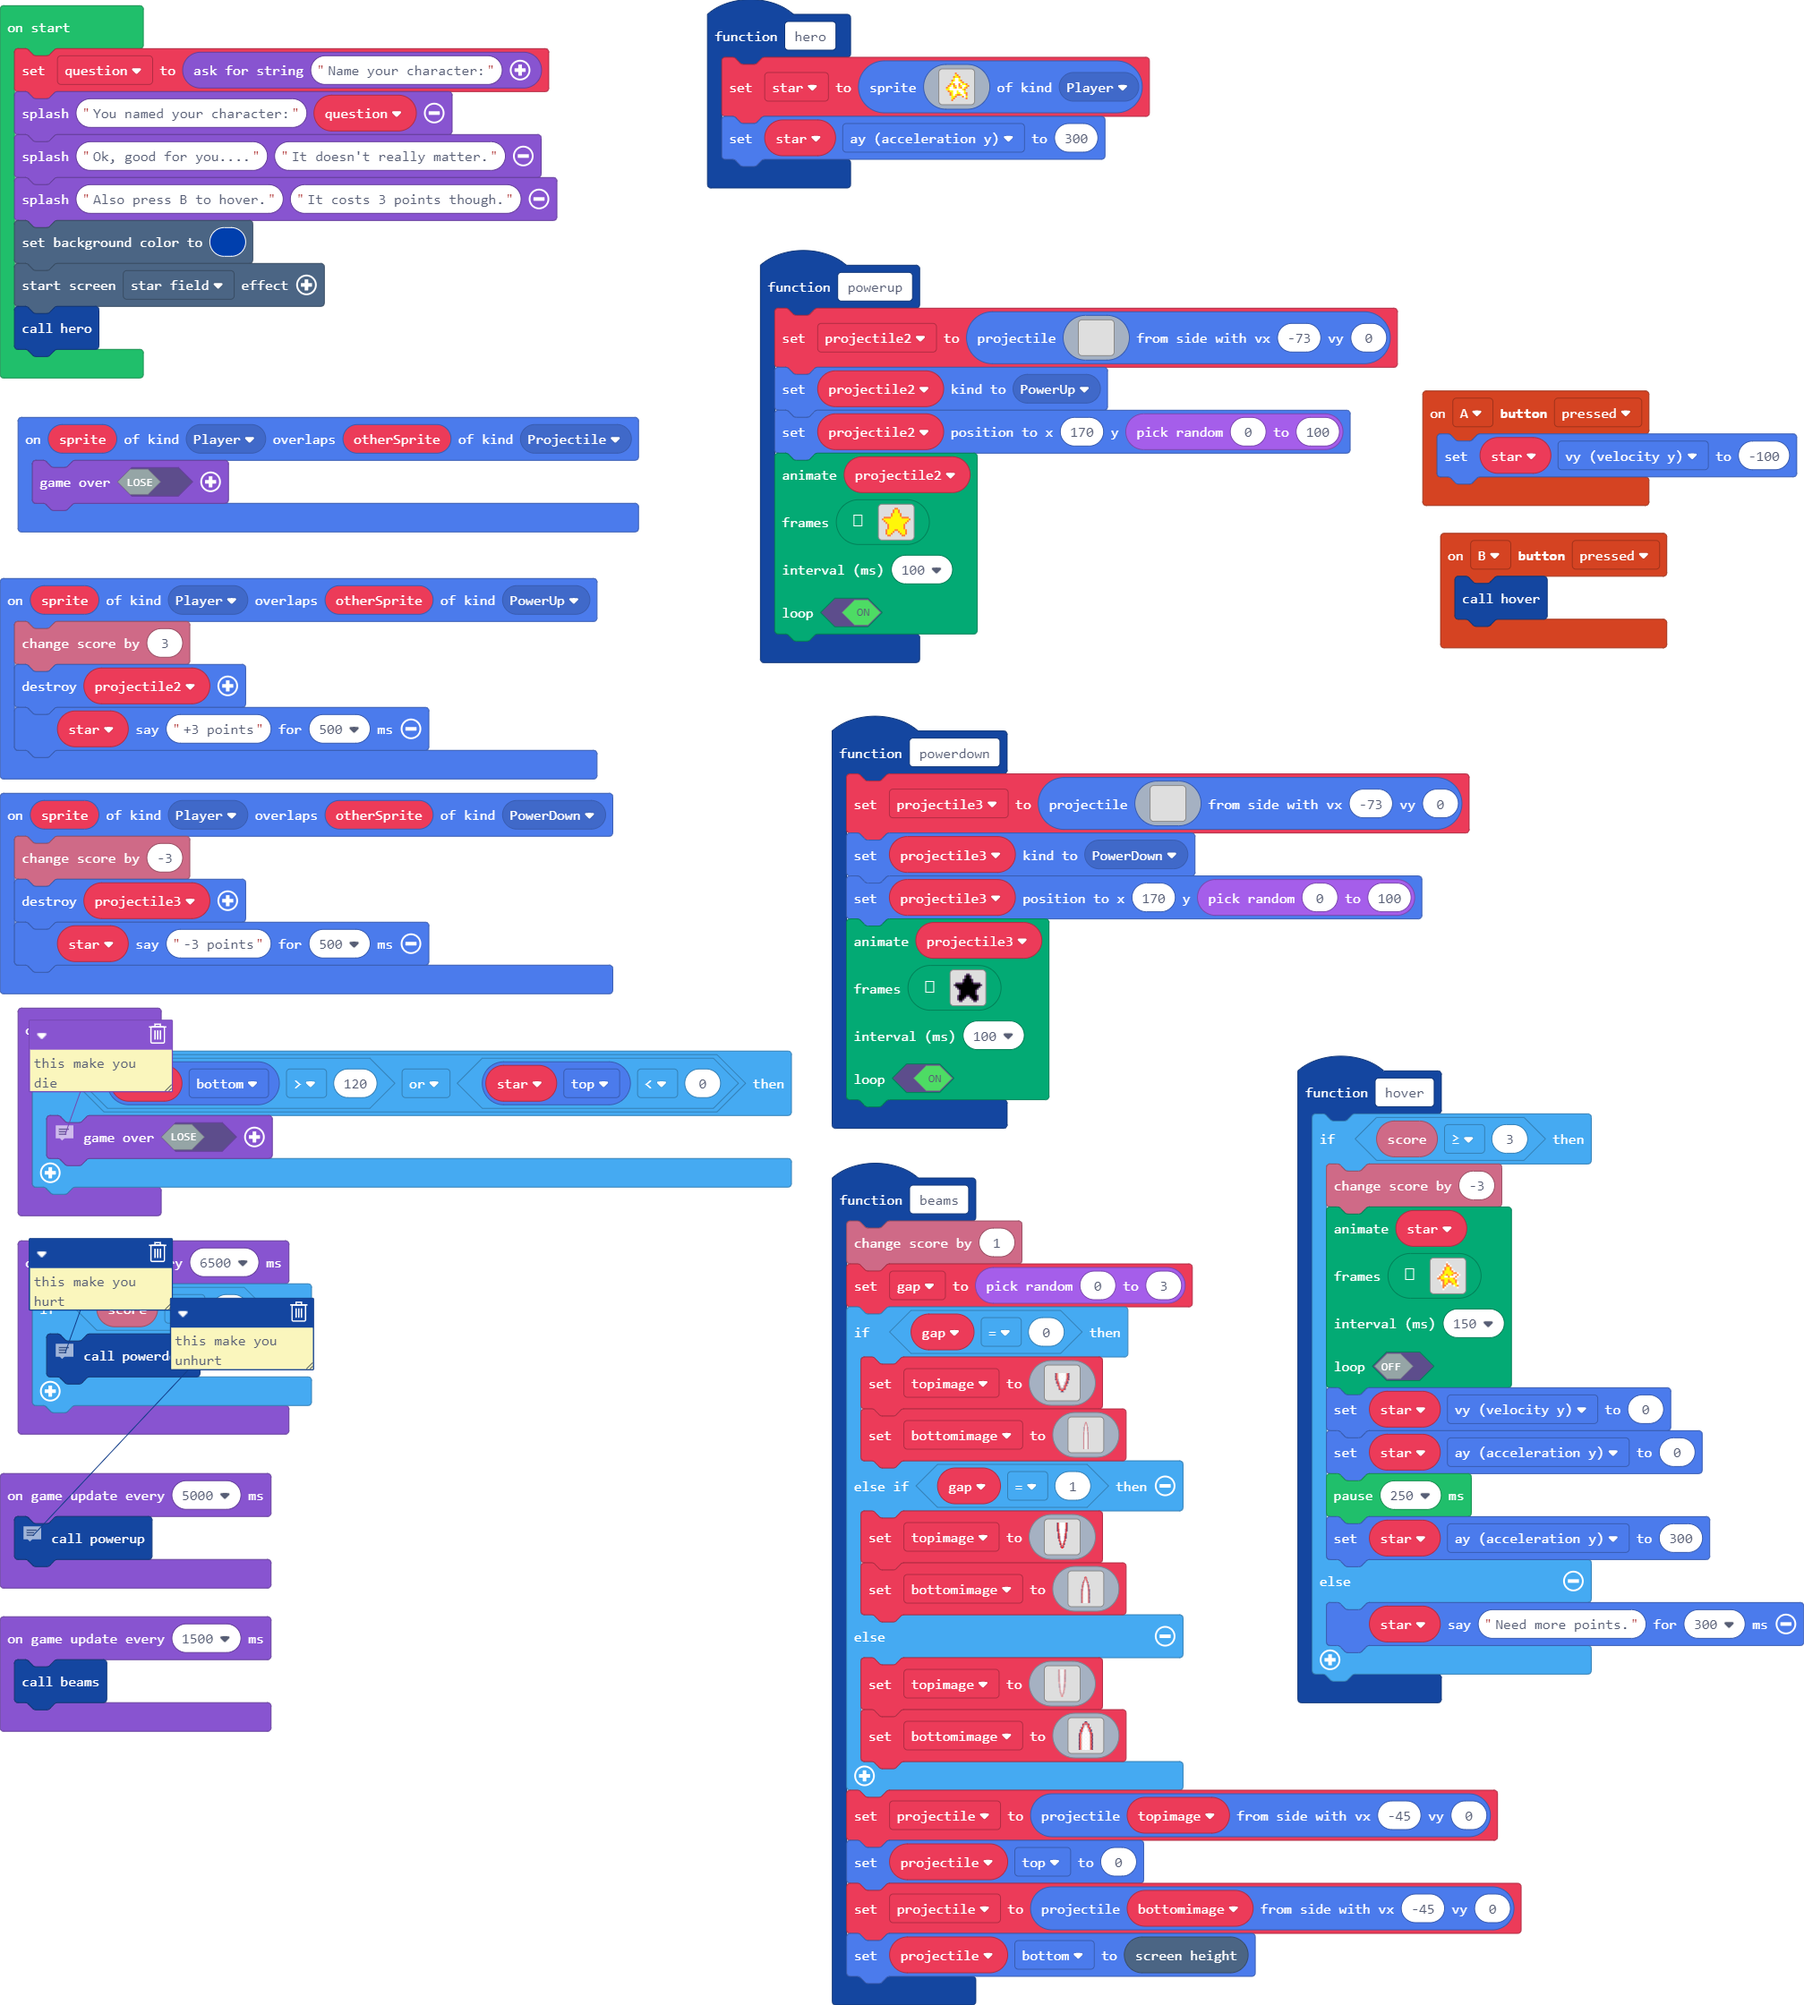
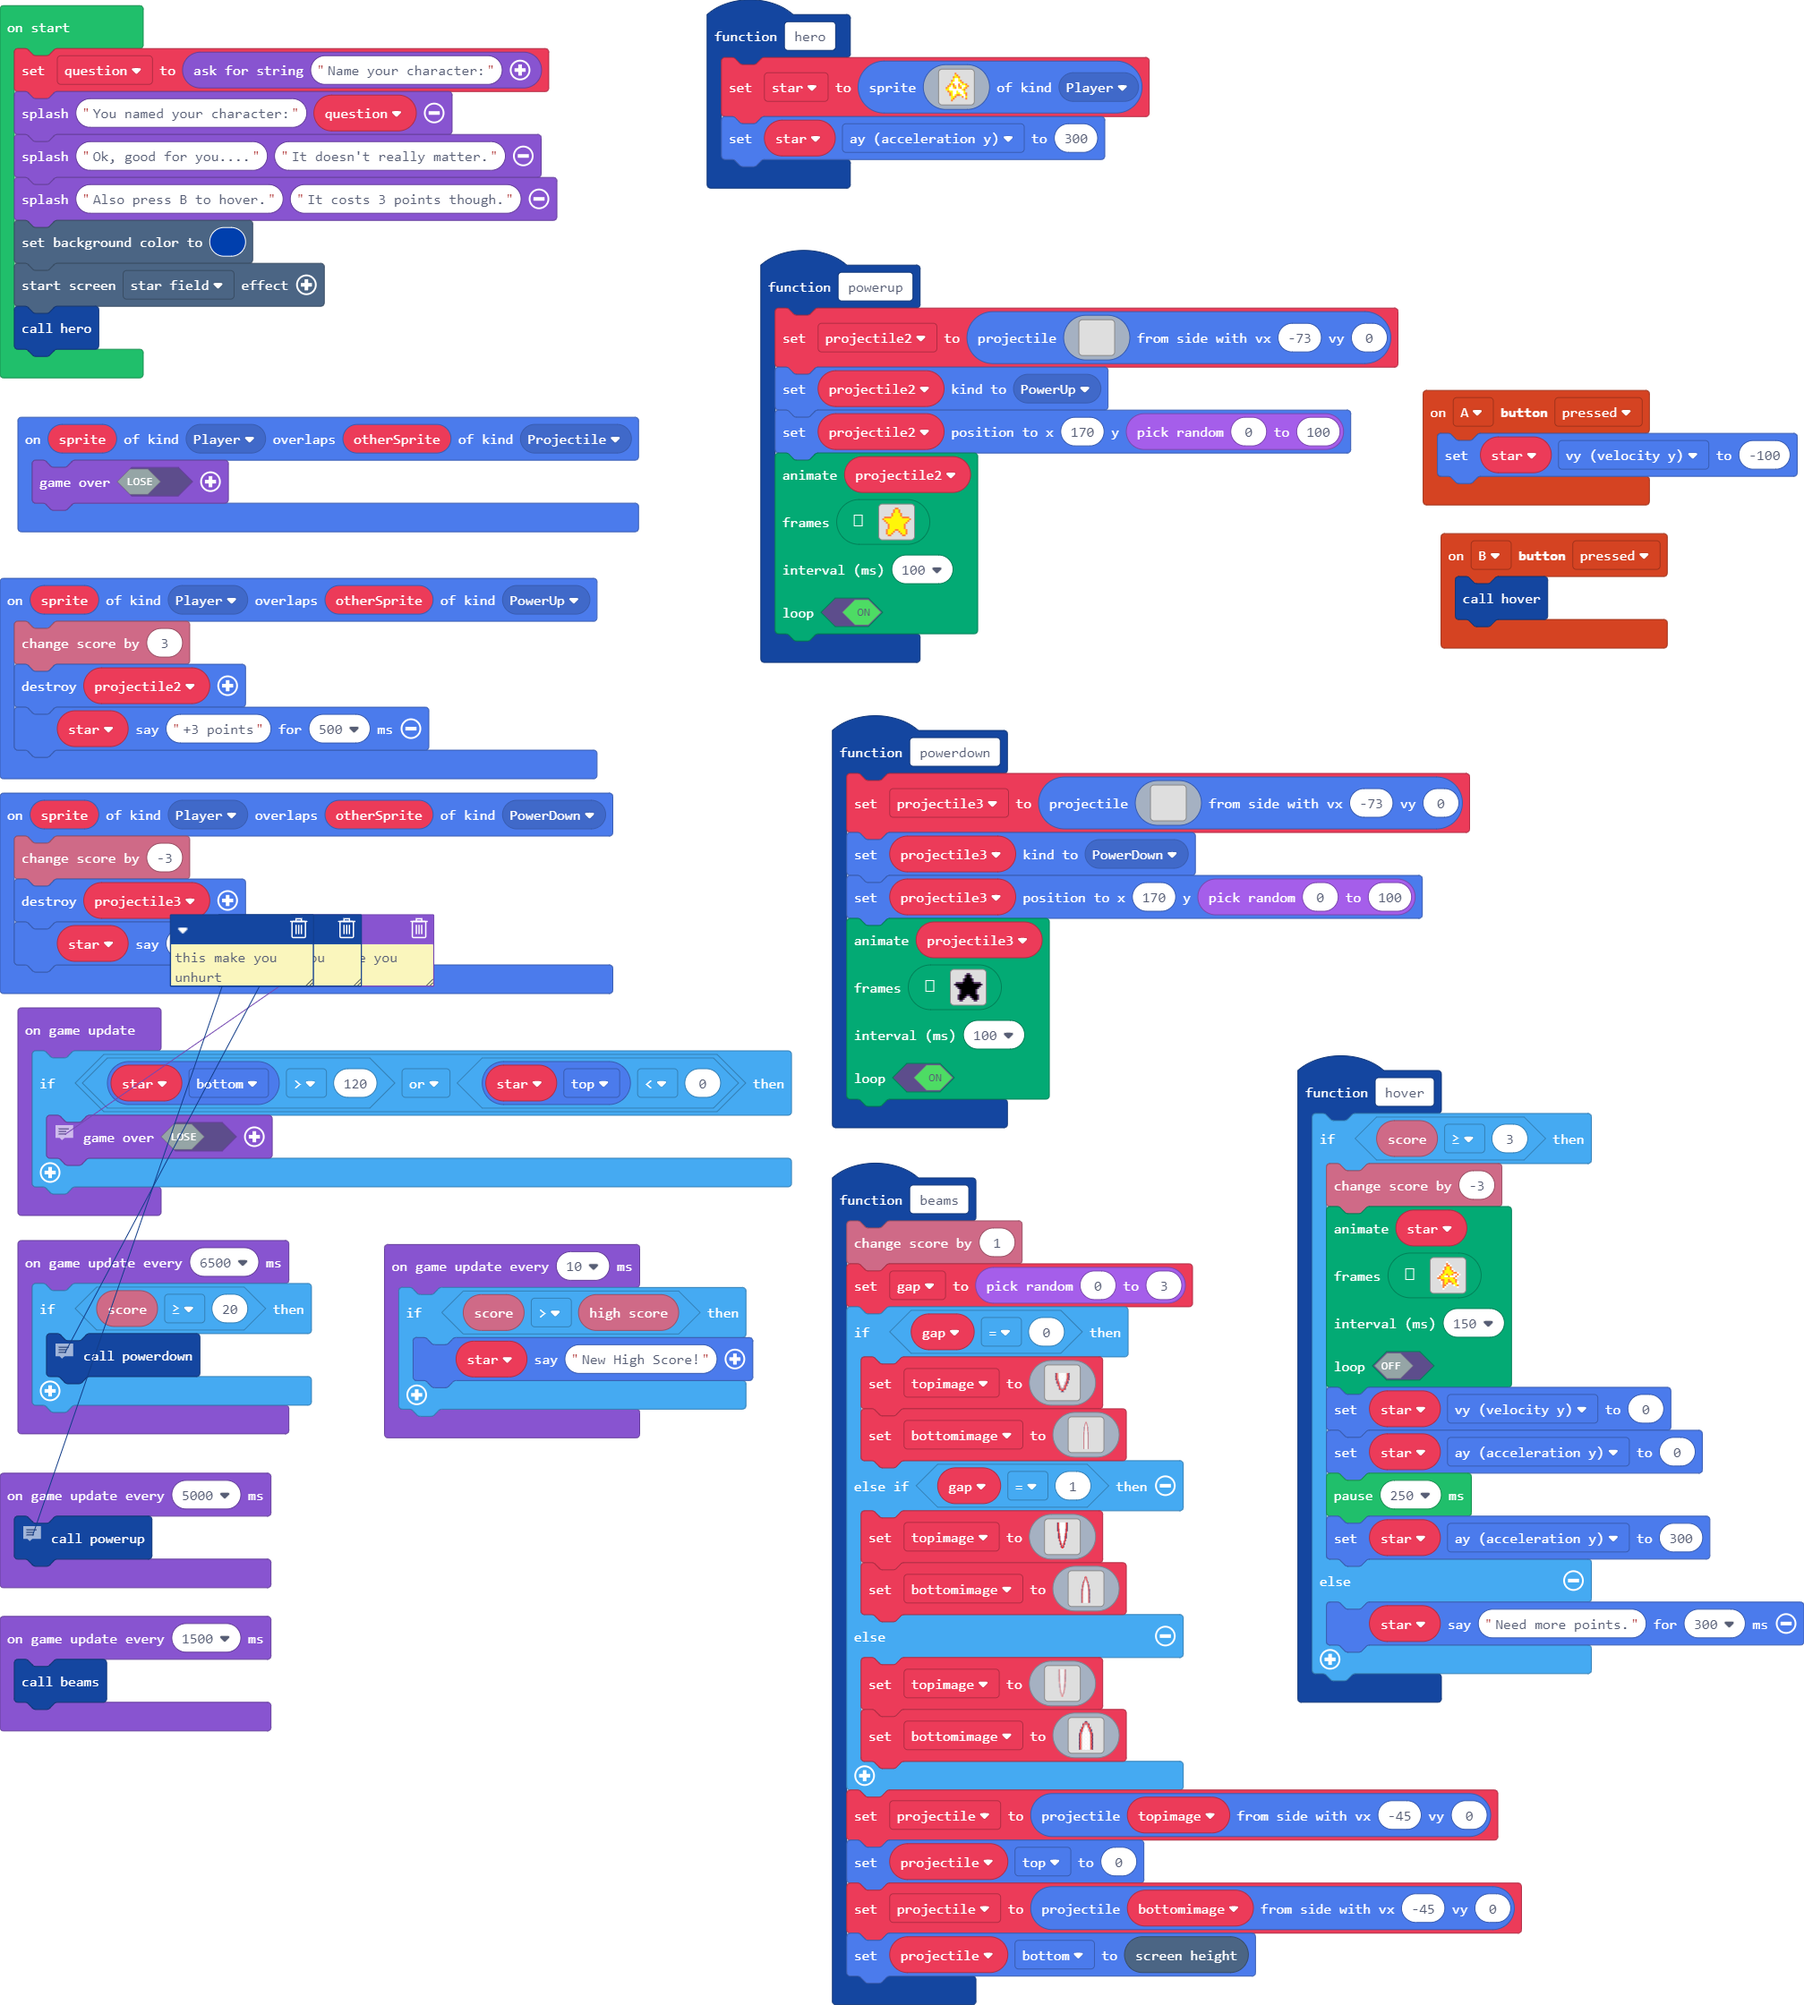
Update main.blocks, main.ts

diff --git a/main.ts b/main.ts
@@ -615,3 +615,8 @@ game.onUpdateInterval(5000, function () {
     // unhurt
     powerup()
 })
+game.onUpdateInterval(10, function () {
+    if (info.score() > info.highScore()) {
+        star.say("New High Score!")
+    }
+})
